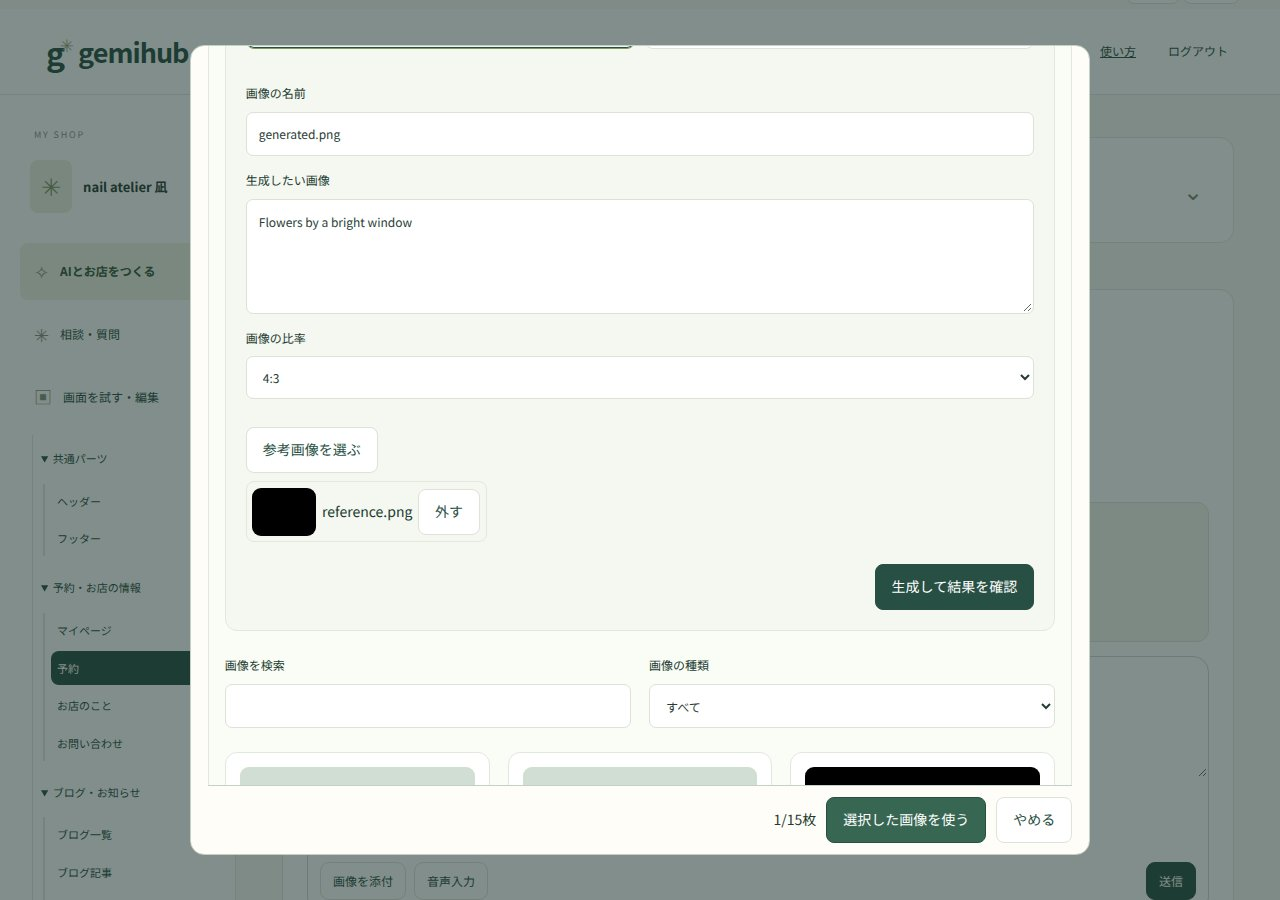
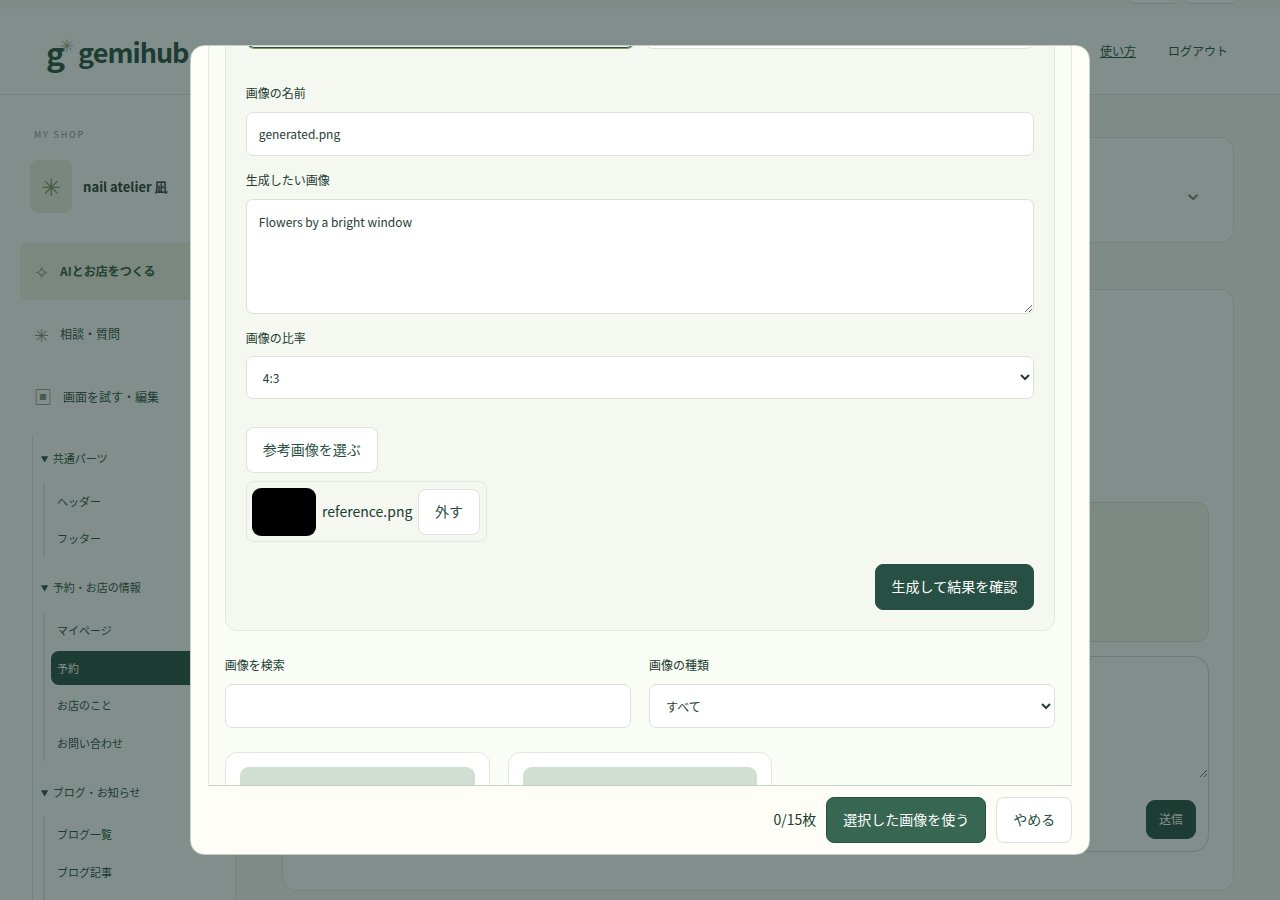
Show screen names and a theme sample at first review; carry chat images into plans
- The first-publication review lists screens by name and shows the page theme
  as one screen image (header, placeholder content, footer) instead of
  rendering a capture of every screen.
- Images attached anywhere in a request chat stay visible to the AI for later
  replies and for the change plan (newest first within 15 images / 75 MB);
  images removed since are skipped instead of failing the chat.
- The AI reflects sample/reference images in colors, mood, layout, structure
  and content, and never follows text inside images.

diff --git a/src/ImageLibrary.tsx b/src/ImageLibrary.tsx
@@ -7,10 +7,9 @@ import { CustomerImageDialog } from "./CustomerImages";
 import { createRequestId } from "./request-id";
 import { generateImageSchema, type GenerateImageInput, type LibraryImage } from "../server/image-library-domain";
 import { RequestImagePicker } from "./RequestImagePicker";
-import { ImageUploadStatus } from "./ImageUploadStatus";
 
 const toData = (file: File) => new Promise<string>((resolve, reject) => { const reader = new FileReader(); reader.onload = () => resolve(String(reader.result).split(",")[1]); reader.onerror = () => reject(new Error(tr("画像を読み込めませんでした"))); reader.readAsDataURL(file); });
-export function ImageLibrary({ shopId, mode = "manage", onSelect, onCreated, onRemove, selectedIds = [], onImagesChange, onBusyChange, allowGeneration = true }: { shopId: string; mode?: "manage" | "select"; onSelect?: (image: LibraryImage) => void; onCreated?: (image: LibraryImage) => boolean; onRemove?: (id: string) => void; selectedIds?: string[]; onImagesChange?: (images: LibraryImage[] | undefined) => void; onBusyChange?: (busy: boolean) => void; allowGeneration?: boolean }) {
+export function ImageLibrary({ shopId, onSelect, onCreated, onRemove, selectedIds = [], onImagesChange, onBusyChange, allowGeneration = true }: { shopId: string; onSelect?: (image: LibraryImage) => void; onCreated?: (image: LibraryImage) => boolean; onRemove?: (id: string) => void; selectedIds?: string[]; onImagesChange?: (images: LibraryImage[] | undefined) => void; onBusyChange?: (busy: boolean) => void; allowGeneration?: boolean }) {
   const api = useApi();
   const base = `/api/shops/${shopId}/images`;
   const pendingKey = `gemihub:image-generation:${shopId}`;
@@ -18,8 +17,6 @@ export function ImageLibrary({ shopId, mode = "manage", onSelect, onCreated, onR
   const [error, setError] = useState("");
   const [notice, setNotice] = useState("");
   const [busy, setBusy] = useState(false);
-  const [uploading, setUploading] = useState(false);
-  const managing = mode === "manage";
   const busyRef = useRef(false);
   const [listening, setListening] = useState(false);
   const [query, setQuery] = useState("");
@@ -52,14 +49,11 @@ export function ImageLibrary({ shopId, mode = "manage", onSelect, onCreated, onR
   async function run(action: () => Promise<void>) { if (busyRef.current) return; busyRef.current = true; setBusy(true); setError(""); setNotice(""); try { await action(); } catch (e) { setError(e instanceof Error ? e.message : String(e)); } finally { busyRef.current = false; setBusy(false); } }
   async function saveUpload(action: { file: File; requestId: string }) {
     await run(async () => {
-      setUploading(true);
-      try {
-        const { imageId } = await api<{ imageId: string }>(base, { requestId: action.requestId, name: action.file.name, mimeType: action.file.type, data: await toData(action.file) });
-        const image: LibraryImage = { id: imageId, name: action.file.name.trim(), mimeType: action.file.type, size: action.file.size, source: "upload", createdAt: new Date().toISOString(), usedBy: [] };
-        setImages(current => [...(current || []).filter(item => item.id !== imageId), image]);
-        setUpload(undefined); setQuery(""); setSource("all");
-        setNotice(managing ? tr("画像をアップロードしました。") : onCreated?.(image) === false ? tr("画像を保存しました。選択済みの画像を外してから、この画像を選んでください。") : tr("アップロードした画像を選択しました。内容を確認してから使用してください。"));
-      } finally { setUploading(false); }
+      const { imageId } = await api<{ imageId: string }>(base, { requestId: action.requestId, name: action.file.name, mimeType: action.file.type, data: await toData(action.file) });
+      const image: LibraryImage = { id: imageId, name: action.file.name.trim(), mimeType: action.file.type, size: action.file.size, source: "upload", createdAt: new Date().toISOString(), usedBy: [] };
+      setImages(current => [...(current || []).filter(item => item.id !== imageId), image]);
+      setUpload(undefined); setQuery(""); setSource("all");
+      setNotice(onCreated?.(image) === false ? tr("画像を保存しました。選択済みの画像を外してから、この画像を選んでください。") : tr("アップロードした画像を選択しました。内容を確認してから使用してください。"));
     });
   }
   function newGeneration() {
@@ -73,9 +67,9 @@ export function ImageLibrary({ shopId, mode = "manage", onSelect, onCreated, onR
   }
   const visible = images?.filter(image => (source === "all" || image.source === source) && `${image.name} ${image.prompt || ""}`.toLowerCase().includes(query.trim().toLowerCase()));
   const zoomIndex = visible?.findIndex(image => image.id === zoomId) ?? -1;
-  return <section className={managing ? "panel image-library" : "image-library image-picker-library"} aria-label={managing ? tr("画像管理") : tr("画像を選ぶ")}>
-    {managing && <div className="section-top"><h2>{tr("画像管理")}</h2></div>}
-    <p>{managing ? tr("アップロードした画像とAIで生成した画像をまとめて管理します。ページやメニューで使って保存・反映するまで、お客様には公開されません。") : allowGeneration ? tr("使う画像を選ぶか、その場でアップロード・AI生成できます。") : tr("使う画像を選ぶか、その場でアップロードできます。")}</p>
+  return <section className={onSelect ? "image-library image-picker-library" : "panel image-library"} aria-label={onSelect ? tr("画像を選ぶ") : tr("画像管理")}>
+    {!onSelect && <div className="section-top"><h2>{tr("画像管理")}</h2></div>}
+    <p>{tr("アップロードした画像とAIで生成した画像をまとめて管理します。ページやメニューで使って保存・反映するまで、お客様には公開されません。")}</p>
     {error && <p className="alert" role="alert">{error}<button type="button" disabled={busy} onClick={() => { setError(""); setAttempt(v => v + 1); }}>{tr("再試行")}</button></p>}{notice && <p className="notice" role="status">{notice}</p>}
     <div className="image-library-tools"><label>{tr("画像をアップロード")}<input type="file" accept="image/png,image/jpeg,image/gif,image/webp" disabled={busy || listening || !images} onChange={event => {
       const file = event.target.files?.[0]; event.target.value = ""; if (!file) return;
@@ -85,8 +79,7 @@ export function ImageLibrary({ shopId, mode = "manage", onSelect, onCreated, onR
     }} /></label>{allowGeneration && <button type="button" disabled={busy || listening} onClick={() => generatorOpen ? setGeneratorOpen(false) : startGeneration()}>{tr("AIで生成")}</button>}</div>
     <p className="small muted">{tr("PNG・JPEG・GIF・WebP、1枚5MBまで。お客様メモの添付はこの一覧には表示しません。")}</p>
     {upload && !busy && <button type="button" onClick={() => void saveUpload(upload)}>{tr("アップロードを再試行")}</button>}
-    {uploading && <ImageUploadStatus name={upload?.file.name} />}
-    {busy && !uploading && !generatorOpen && <p role="status">{tr("画像を保存しています…")}</p>}
+    {busy && !generatorOpen && <p role="status">{tr("画像を保存しています…")}</p>}
     {generatorOpen && <section className="image-generation" aria-label={tr("AIで画像を生成する")}>
       <h3>{tr("AIで画像を生成する")}</h3>
       {!generated && <>
@@ -111,7 +104,7 @@ export function ImageLibrary({ shopId, mode = "manage", onSelect, onCreated, onR
       <div className="actions"><button className="primary" type="submit" disabled={busy || listening || !prompt.trim() || !name.trim()}>{busy ? tr("画像を生成しています…") : pending ? tr("生成・保存を再試行") : tr("生成して結果を確認")}</button>{pending && <button type="button" disabled={busy || listening} onClick={newGeneration}>{tr("新しい生成として入力し直す")}</button>}</div>
     </form>}
     </>}
-    {generated && <section className="request-review image-generation-result" aria-label={tr("生成した画像を確認")}><span className="pill">{tr("確認")}</span><h3>{tr("生成した画像を確認")}</h3><MenuImage imageId={generated.id} imageBase={base} name={generated.name} className="library-image" /><p>{generated.name}</p><p className="small muted">{managing ? tr("画像管理に保存しました。ページやメニューの画像選択から使用できます。") : tr("画像を保存しました。「これでOK」で選択し、この画面で確定すると依頼や編集に使えます。")}</p><div className="actions"><button type="button" onClick={() => { setReference(generated.id); setGenerated(undefined); setMethod(undefined); setNotice(""); }}>{tr("さらに依頼する")}</button><button type="button" className="primary" disabled={!images?.some(image => image.id === generated.id)} onClick={() => { const image = images?.find(image => image.id === generated.id); if (image) onCreated?.(image); setGeneratorOpen(false); setQuery(""); setSource("all"); }}>{tr("これでOK")}</button></div></section>}
+    {generated && <section className="request-review image-generation-result" aria-label={tr("生成した画像を確認")}><span className="pill">{tr("確認")}</span><h3>{tr("生成した画像を確認")}</h3><MenuImage imageId={generated.id} imageBase={base} name={generated.name} className="library-image" /><p>{generated.name}</p><p className="small muted">{tr("画像を保存しました。「これでOK」で選択し、この画面で確定すると依頼や編集に使えます。")}</p><div className="actions"><button type="button" onClick={() => { setReference(generated.id); setGenerated(undefined); setMethod(undefined); setNotice(""); }}>{tr("さらに依頼する")}</button><button type="button" className="primary" disabled={!images?.some(image => image.id === generated.id)} onClick={() => { const image = images?.find(image => image.id === generated.id); if (image) onCreated?.(image); setGeneratorOpen(false); setQuery(""); setSource("all"); }}>{tr("これでOK")}</button></div></section>}
     </section>}
     <div className="customer-controls"><label>{tr("画像を検索")}<input type="search" value={query} onChange={event => setQuery(event.target.value)} /></label><label>{tr("画像の種類")}<select value={source} onChange={event => setSource(event.target.value)}><option value="all">{tr("すべて")}</option><option value="upload">{tr("アップロード")}</option><option value="ai">{tr("AI生成")}</option></select></label></div>
     {!images && !error && <p role="status">{tr("画像を読み込んでいます…")}</p>}
@@ -120,11 +113,9 @@ export function ImageLibrary({ shopId, mode = "manage", onSelect, onCreated, onR
       <button type="button" className="image-preview-button" aria-label={tr("{0}を拡大", image.name)} onClick={() => setZoomId(image.id)}><MenuImage imageId={image.id} imageBase={base} name={image.name} className="library-image" /></button>
       <figcaption><strong>{image.name}</strong><span className="pill">{image.source === "ai" ? tr("AI生成") : tr("アップロード")}</span><small>{Math.ceil(image.size / 1024)} KB{image.createdAt && ` · ${new Date(image.createdAt).toLocaleDateString(intlLocale())}`}</small>{image.usedBy.length > 0 && <p className="small muted">{tr("使用中：")}{image.usedBy.join("、")}</p>}</figcaption>
       {image.prompt && <details><summary>{tr("生成したときの指示")}</summary><p className="pre-wrap">{image.prompt}</p></details>}
-      <div className="actions">{onSelect && <button type="button" className="primary" aria-pressed={selectedIds.includes(image.id)} aria-label={tr("{0}を選択", image.name)} disabled={busy || listening} onClick={() => onSelect(image)}>{selectedIds.includes(image.id) ? tr("✓ 選択中") : tr("選択する")}</button>}{managing && allowGeneration && <button type="button" disabled={busy || listening || !!pending} onClick={() => startGeneration(image.id)}>{tr("この画像をもとに生成")}</button>}</div>
-      {managing && <>
+      <div className="actions">{onSelect && <button type="button" className="primary" aria-pressed={selectedIds.includes(image.id)} aria-label={tr("{0}を選択", image.name)} disabled={busy || listening} onClick={() => onSelect(image)}>{selectedIds.includes(image.id) ? tr("✓ 選択中") : tr("選択する")}</button>}{allowGeneration && <button type="button" disabled={busy || listening || !!pending} onClick={() => startGeneration(image.id)}>{tr("この画像をもとに生成")}</button>}</div>
       {editing?.id === image.id ? <form onSubmit={event => { event.preventDefault(); event.stopPropagation(); void run(async () => { await api(`${base}/${image.id}/rename`, { name: editing.name }); setEditing(undefined); setAttempt(v => v + 1); setNotice(tr("画像の名前を変更しました。")); }); }}><label>{tr("新しい画像名")}<input required maxLength={255} value={editing.name} disabled={busy} onChange={event => setEditing({ ...editing, name: event.target.value })} /></label><div className="actions"><button type="submit" disabled={busy}>{tr("名前を保存")}</button><button type="button" disabled={busy} onClick={() => setEditing(undefined)}>{tr("やめる")}</button></div></form> : <button type="button" disabled={busy} onClick={() => setEditing({ id: image.id, name: image.name })}>{tr("名前を変更")}</button>}
       {deleting === image.id ? <div className="notice">{tr("画像管理から削除します。Drive のファイルは残ります。")}<div className="actions"><button type="button" disabled={busy} onClick={() => void run(async () => { await api(`${base}/${image.id}/archive`, {}); onRemove?.(image.id); setDeleting(undefined); setAttempt(v => v + 1); setNotice(tr("画像管理から削除しました。")); })}>{tr("削除する")}</button><button type="button" disabled={busy} onClick={() => setDeleting(undefined)}>{tr("やめる")}</button></div></div> : <button type="button" disabled={busy || image.usedBy.length > 0} onClick={() => setDeleting(image.id)}>{tr("画像管理から削除")}</button>}
-      </>}
     </figure>)}</div>
     {zoomIndex >= 0 && <CustomerImageDialog items={visible!.map(image => ({ file: { id: image.id, name: image.name, mimeType: image.mimeType, size: image.size }, path: `${base}/${image.id}`, createdAt: image.createdAt || undefined }))} initialIndex={zoomIndex} close={() => setZoomId(undefined)} />}
   </section>;

diff --git a/src/App.tsx b/src/App.tsx
@@ -33,7 +33,6 @@ import "./style.css";
 import { LegacyNotes } from "./LegacyNotes";
 import { JudgeStart, JudgeMenu, JudgeBar, AccessPassword } from "./JudgeAccess";
 import { ShopReset } from "./ShopReset";
-import { ImageLibrary } from "./ImageLibrary";
 import { Admin } from "./Admin";
 import { Assistant } from "./Assistant";
 import { paid, createDisplay, useShopDisplay, ShopRegionContext } from "./money";
@@ -87,20 +86,9 @@ export function App({
   const [error, setError] = useState("");
   const [busy, setBusy] = useState(false);
   const [notice, setNotice] = useState("");
-  const [showOperatorControls, setShowOperatorControls] = useState(false);
   const refresh = () => api<Session>("/api/session").then(setSession);
   useEffect(() => {
     refresh().catch((e) => setError(e.message));
-  }, []);
-  useEffect(() => {
-    const toggleOperatorControls = (event: KeyboardEvent) => {
-      if (event.ctrlKey && event.shiftKey && !event.altKey && !event.metaKey && !event.isComposing && (event.code === "KeyL" || event.key.toLowerCase() === "l")) {
-        event.preventDefault();
-        if (!event.repeat) setShowOperatorControls(value => !value);
-      }
-    };
-    window.addEventListener("keydown", toggleOperatorControls);
-    return () => window.removeEventListener("keydown", toggleOperatorControls);
   }, []);
   async function run(fn: () => Promise<void>) {
     setBusy(true);
@@ -139,8 +127,8 @@ export function App({
           </span>
           {session.user?.role === "owner" && session.user.legacyNotes && <a className="text-button" href="/settings/migration">{tr("旧環境からの引き継ぎ")}</a>}
           {session.user?.judge && <a className="text-button" href="/judge-menu">{tr("審査メニュー")}</a>}
-          {showOperatorControls && session.user?.admin && <a className="text-button" href="/admin">{tr("運営管理")}</a>}
-          {session.user?.role === "owner" && session.user.shopId && !session.user.judge && !session.user.legacyNotes && !session.user.accessPending && <ShopReset shopId={session.user.shopId} navigate={navigate} showButton={showOperatorControls} />}
+          {session.user?.admin && <a className="text-button" href="/admin">{tr("運営管理")}</a>}
+          {session.user?.role === "owner" && session.user.shopId && !session.user.judge && !session.user.legacyNotes && !session.user.accessPending && <ShopReset shopId={session.user.shopId} navigate={navigate} />}
           {!session.user && <a className="text-button" href="/lp">{tr("サービス紹介")}</a>}
           {!isPublic && (
             <a className="text-button" href="/manual">
@@ -359,7 +347,7 @@ function Dashboard({
   const shop = shops.find((s) => s.id === chosen) || shops[0];
   const creating = !!shop?.isOwner && !shop.published;
   const view = creating ? "build" : tab;
-  useEffect(() => { if (shop && !shop.isOwner && ["try", "data", "images"].includes(tab)) setTab("bookings"); }, [shop?.id, shop?.isOwner, tab]);
+  useEffect(() => { if (shop && !shop.isOwner && ["try", "data"].includes(tab)) setTab("bookings"); }, [shop?.id, shop?.isOwner, tab]);
   const activePlan =
     plan && plan.base === shop?.revision && shop.plans.some((p) => p.id === plan.id)
       ? plan
@@ -410,7 +398,7 @@ function Dashboard({
             ["inquiries", "✉", tr("お問い合わせ")],
             ["blog", "✎", tr("ブログ・お知らせ")],
             ...(!shop?.isOwner ? [["staff", "♧", tr("自分のカレンダー")]] : []),
-            ...(shop?.isOwner ? [["images", "▧", tr("画像管理")], ["data", "▤", tr("データ管理")]] : []),
+            ...(shop?.isOwner ? [["data", "▤", tr("データ管理")]] : []),
             ["settings", "⚙", tr("公開の設定")],
             ["manual", "?", tr("使い方")],
           ].map(([id, icon, label]) => (
@@ -508,7 +496,6 @@ function Dashboard({
                 )}
                 {!creating && <div hidden={view!=="inquiries"}><Inquiries shopId={shop.id} inquiries={shop.inquiries}/></div>}
                 {view === "data" && shop.isOwner && <DataManagement key={shop.id} shopId={shop.id} open={setTab} showMenus={openDataMenu} />}
-                {view === "images" && shop.isOwner && <ImageLibrary key={shop.id} shopId={shop.id} />}
                 {view === "settings" && (
                   <Settings shop={shop} run={run} reload={load} hasLegacyNotes={!!session.user?.legacyNotes} />
                 )}

diff --git a/src/Manual.tsx b/src/Manual.tsx
@@ -269,16 +269,15 @@ const chapters: { id: string; title: string; steps: Step[] }[] = [
       {
         id: "image-library",
         get title() { return tr("画像をまとめて管理し、ページに使う"); },
-        get lead() { return tr("メニューの「画像管理」で画像を管理できます。依頼や編集時の画像選択では、アップロード・AI生成・選択ができます。"); },
+        get lead() { return tr("依頼や編集画面の画像選択モーダルで、画像のアップロード・AI生成・管理をまとめて行えます。"); },
         get instructions() { return [
           tr("チャットの「画像を添付」や編集画面の画像選択を開きます。「画像をアップロード」でPNG・JPEG・GIF・WebPの5MB以内の画像を選ぶと、自動で選択されます。最後に「選択した画像を使う」で確定します。検索・種類の絞り込み・拡大も同じ画面でできます。"),
           tr("登録時に使う画面を指定する必要はありません。使用中の画面名は一覧で確認できます。文章・音声・ペンで依頼するときやAIでページを作るときに、チャットの「画像を添付」（ペンでの依頼では「依頼に使う画像を選ぶ」）から管理画像を15枚まで（合計75MB以内）選び、どのように使いたいか伝えてください。変更案の確認・承認・公開まで本番には反映されません。"),
           tr("新しいページやAIが作ったページ案では、編集欄の「画像管理から選ぶ・AIで生成」から画像を選べます。共通ヘッダーとメニューにも同じ選択ボタンがあります。メニューの変更は「保存」で反映します。"),
-          tr("「この画像をもとに生成」「名前を変更」「画像管理から削除」は、メニューの「画像管理」だけに表示します。使用していない画像は確認して削除できます。Drive のファイル本体は残ります。"),
-          tr("アップロード中はスピナー・ファイル名・「画像をアップロードしています…」を表示します。表示が消えるまで待ち、失敗した場合は同じ画面から再試行してください。"),
+          tr("画像の「名前を変更」で名前を編集できます。使用していない画像は「画像管理から削除」から確認して削除できます。Drive のファイル本体は残ります。"),
         ]; },
         image: "30-image-library.jpg",
-        extra: [{ image: "32-page-image.jpg", get caption() { return tr("画像選択モーダルで、アップロード・AI生成・既存画像からの選択ができます。"); } }, { image: "36-image-uploading.jpg", get caption() { return tr("アップロード中はスピナーとファイル名を表示します。"); } }],
+        extra: [{ image: "32-page-image.jpg", get caption() { return tr("画像選択モーダルで、アップロード・AI生成・既存画像からの選択ができます。"); } }],
         get caption() { return tr("アップロード画像とAI生成画像を、使用中の画面名や登録元と一緒に管理する一覧。"); },
         get tip() { return tr("登録しただけではお客様には公開されません。お客様メモの画像は「お客様」の詳細にある「画像一覧」で確認できます。画像管理や依頼の画像選択には表示しません。使用中の画像は、ページやメニューから外して本番に反映してから削除してください。"); },
       },

diff --git a/src/stories/ImageLibrary.stories.tsx b/src/stories/ImageLibrary.stories.tsx
@@ -1,7 +1,7 @@
 import React from "react";
 import { tr } from "../../shared/i18n";
 import type { Meta, StoryObj } from "@storybook/react-vite";
-import { within, userEvent, waitFor, expect } from "storybook/test";
+import { within, userEvent } from "storybook/test";
 import { Screen } from "./Screen";
 const meta = { title: "運営/画像管理", component: Screen, parameters: { layout: "fullscreen" }, render: args => <Screen key={args.scenario} {...args} /> } satisfies Meta<typeof Screen>;
 export default meta;
@@ -12,8 +12,7 @@ async function openPicker(canvasElement: HTMLElement) {
   await userEvent.click(await canvas.findByRole("button", { name: tr("画像を添付") }));
   return within(await within(canvasElement.ownerDocument.body).findByRole("dialog", { name: tr("依頼の画像を選ぶ") }));
 }
-export const Library: Story = { name: "管理画像・アップロード・使用中の画面", args: { scenario: "image-library" }, play: async ({ canvasElement }) => { await userEvent.click(await within(canvasElement).findByRole("button", { name: new RegExp(tr("画像管理") + "$") })); } };
-export const Uploading: Story = { name: "画像アップロード中・スピナーとファイル名", args: { scenario: "image-library-uploading" }, play: async ({ canvasElement }) => { const input = await within(canvasElement).findByLabelText(tr("画像をアップロード")); await waitFor(() => expect(input).toBeEnabled()); await userEvent.upload(input, new File(["uploading"], "shop-photo.png", { type: "image/png" })); } };
+export const Library: Story = { name: "管理画像・アップロード・使用中の画面", args: { scenario: "image-library" }, play: async ({ canvasElement }) => { await openPicker(canvasElement); } };
 export const Generate: Story = { name: "文章で画像生成・参考画像", args: { scenario: "image-library-generation" }, play: async ({ canvasElement }) => { const picker = await openPicker(canvasElement); await userEvent.click(picker.getByRole("button", { name: tr("AIで生成") })); await userEvent.click(picker.getByRole("button", { name: new RegExp(tr("文章で依頼")) })); await userEvent.type(picker.getByLabelText(tr("生成したい画像")), "お店の紹介に使う、明るい窓辺と季節の花の画像"); } };
 export const GenerateMethods: Story = { name: "画像生成の依頼方法を選ぶ", args: { scenario: "image-library-generation" }, play: async ({ canvasElement }) => { const picker = await openPicker(canvasElement); await userEvent.click(picker.getByRole("button", { name: tr("AIで生成") })); } };
 export const GenerateVoice: Story = { name: "音声で画像生成・内容を確認", args: { scenario: "image-library-generation" }, play: async ({ canvasElement }) => { const picker = await openPicker(canvasElement); await userEvent.click(picker.getByRole("button", { name: tr("AIで生成") })); await userEvent.click(picker.getByRole("button", { name: new RegExp(tr("音声で依頼")) })); } };

diff --git a/src/RequestImagePicker.tsx b/src/RequestImagePicker.tsx
@@ -54,7 +54,7 @@ export function RequestImagePicker({ shopId, value, onChange, disabled = false, 
       <div className="section-top"><h2>{selectionOnly ? tr("画像を選ぶ") : tr("依頼の画像を選ぶ")}</h2><button type="button" disabled={working} onClick={() => setOpen(false)}>{tr("閉じる")}</button></div>
       <p>{tr("{0}枚まで選べます。", max)}{!selectionOnly && max > 1 && tr("合計75MBまで。大きな画像はAIへ渡す際に軽量化し、元画像はそのまま保存します。")}{tr("お客様メモの画像は含みません。")}</p>
       {error && <p className="alert" role="alert">{error}{!managed && !images && <button type="button" onClick={() => setAttempt(value => value + 1)}>{tr("再試行")}</button>}</p>}
-      {managed ? <ImageLibrary shopId={shopId} mode="select" selectedIds={selection} onSelect={image => choose(image)} onCreated={image => choose(image, false)} onImagesChange={receiveImages} onBusyChange={receiveBusy} allowGeneration={allowGeneration} /> : <>
+      {managed ? <ImageLibrary shopId={shopId} selectedIds={selection} onSelect={image => choose(image)} onCreated={image => choose(image, false)} onRemove={id => { setSelection(current => current.filter(item => item !== id)); if (value.includes(id)) onChange(value.filter(item => item !== id)); }} onImagesChange={receiveImages} onBusyChange={receiveBusy} allowGeneration={allowGeneration} /> : <>
         <div className="customer-controls"><label>{tr("画像を検索")}<input type="search" value={query} onChange={event => setQuery(event.target.value)} /></label><label>{tr("画像の種類")}<select value={source} onChange={event => setSource(event.target.value)}><option value="all">{tr("すべて")}</option><option value="upload">{tr("アップロード")}</option><option value="ai">{tr("AI生成")}</option></select></label></div>
         {!images && !error && <p role="status">{tr("画像を読み込んでいます…")}</p>}
         {images && !visible?.length && <p className="empty">{tr("条件に合う画像はありません。")}</p>}

diff --git a/src/MenuImage.tsx b/src/MenuImage.tsx
@@ -4,7 +4,6 @@ import { useApi } from "./api";
 import { createRequestId } from "./request-id";
 import { menuImageLimit, type MenuImageData } from "../server/menu-image-domain";
 import { RequestImagePicker } from "./RequestImagePicker";
-import { ImageUploadStatus } from "./ImageUploadStatus";
 
 export function MenuImage({ imageId, imageBase, suffix = "", name, className = "menu-image" }: { imageId?: string; imageBase: string; suffix?: string; name: string; className?: string }) {
   const api = useApi();
@@ -68,7 +67,7 @@ export function MenuImageEditor({ shopId, imageId, name, change, uploading, labe
       const action = { file, requestId: createRequestId() }; setPending(action); void upload(action);
     }} /></label>}
     <p className="small muted">{tr("1枚・5MBまで。アップロードした画像も画像管理に保存されます。画像を選んだ後、「保存」でお客様の画面に反映します。")}</p>
-    {busy && <ImageUploadStatus name={pending?.file.name} />}
+    {busy && <p role="status">{tr("画像を保存しています…")}</p>}
     {error && <p className="alert" role="alert">{error}</p>}
     <div className="actions">{pending && !busy && error && <button type="button" onClick={() => void upload(pending)}>{tr("画像の保存を再試行")}</button>}{imageId && <button type="button" disabled={busy} onClick={() => { change(undefined); setPending(undefined); setError(""); }}>{tr("画像を解除")}</button>}</div>
     </div>

diff --git a/src/ShopReset.tsx b/src/ShopReset.tsx
@@ -2,7 +2,7 @@ import React, { useRef, useState } from "react";
 import { tr } from "../shared/i18n";
 import { useApi } from "./api";
 
-export function ShopReset({ shopId, navigate, showButton = true }: { shopId: string; navigate: (href: string) => void; showButton?: boolean }) {
+export function ShopReset({ shopId, navigate }: { shopId: string; navigate: (href: string) => void }) {
   const api = useApi();
   const dialog = useRef<HTMLDialogElement>(null);
   const [busy, setBusy] = useState(false);
@@ -23,7 +23,7 @@ export function ShopReset({ shopId, navigate, showButton = true }: { shopId: str
     finally { setBusy(false); }
   };
   return <>
-    {showButton && <button className="text-button" onClick={() => { setError(""); dialog.current?.showModal(); }}>{tr("自分のお店を初期化")}</button>}
+    <button className="text-button" onClick={() => { setError(""); dialog.current?.showModal(); }}>{tr("自分のお店を初期化")}</button>
     <dialog ref={dialog} className="shop-reset-dialog" aria-labelledby="shop-reset-title" aria-describedby="shop-reset-description" onCancel={event => { if (busy) event.preventDefault(); }}>
       <h2 id="shop-reset-title">{tr("お店を最初から作り直しますか？")}</h2>
       <p id="shop-reset-description">{tr("自分のお店の公開ページを閉じ、設定・予約・問い合わせ・お客様・記事・画像・AIとの会話を初期化します。元に戻せません。")}</p>

diff --git a/src/stories/mock.ts b/src/stories/mock.ts
@@ -57,7 +57,6 @@ export type Scenario =
   | "image-library-empty"
   | "image-library-generation"
   | "image-library-retry"
-  | "image-library-uploading"
   | "image-page"
   | "crm-list"
   | "crm-detail"
@@ -158,7 +157,6 @@ export function scenarioProps(scenario: Scenario) {
       (
         {
           "image-library": "build", "image-library-empty": "build", "image-library-generation": "build",
-          "image-library-uploading": "images",
           manual: "manual",
           system: "build",
           "us-settings": "basic", "us-menus": "menus",
@@ -484,7 +482,6 @@ export function createMockClient(scenario: Scenario): ApiClient {
       result = { ok: true };
     }
     else if ([`/api/shops/${shop.id}/menu-images`, `/api/shops/${shop.id}/images`].includes(action) && data !== undefined) {
-      if (scenario === "image-library-uploading") return new Promise<T>(() => {});
       const imageId = uploadedImages.get(String(input.requestId)) || String(menuImages.size + 1).padStart(64, "0");
       uploadedImages.set(String(input.requestId), imageId);
       menuImages.set(imageId, { mimeType: String(input.mimeType), data: String(input.data) }); result = { imageId };

diff --git a/src/ArticleImages.tsx b/src/ArticleImages.tsx
@@ -3,7 +3,6 @@ import React, { useEffect, useRef, useState } from "react";
 import { createPortal } from "react-dom";
 import { useApi } from "./api";
 import { RequestImagePicker } from "./RequestImagePicker";
-import { ImageUploadStatus } from "./ImageUploadStatus";
 import { createRequestId } from "./request-id";
 import { articleImagePath } from "../server/post-images";
 import { menuImageLimit } from "../server/menu-image-domain";
@@ -147,7 +146,7 @@ export function ArticleImageChooser({
           />
         </label>
       )}
-      {busy && <ImageUploadStatus name={pending?.file.name} />}
+      {busy && <p role="status">{tr("画像を保存しています…")}</p>}
       {error && (
         <p className="alert" role="alert">
           {error}

diff --git a/docs/spec.en.md b/docs/spec.en.md
@@ -36,7 +36,7 @@ Questions are answered in Consult & ask. Changes clarifies a requested edit. New
 
 ## Reset for recording
 
-Google-signed-in owners can reveal Reset my shop in the header even during initial setup and in production. Admin and Reset my shop are hidden initially and after reload. Ctrl+Shift+L toggles both controls while preserving their existing authorization checks; ignore repeated keydown events from holding the keys. Hiding the controls must not close a confirmation or interrupt an ongoing reset. Require a confirmation explaining that the storefront closes and settings, bookings, inquiries, customers, articles, images, and AI conversations reset. Focus Cancel first, block duplicate actions while running, and allow the same operation to resume after failure. Customers and another shop’s staff cannot reset it; judges keep their existing judge-menu reset.
+Google-signed-in owners can select Reset my shop in the header even during initial setup and in production. Require a confirmation explaining that the storefront closes and settings, bookings, inquiries, customers, articles, images, and AI conversations reset. Focus Cancel first, block duplicate actions while running, and allow the same operation to resume after failure. Customers and another shop’s staff cannot reset it; judges keep their existing judge-menu reset.
 
 Keep Google authorization, sign-in, country, and time zone; return to an empty shop’s creation screen. Archive the old shop, move only its dedicated Drive folder to the trash, and stop its storefront, custom domain, APIs, synchronization, and old staff access. The next private publication creates new storage. Remove only that shop’s local drafts. Retain PayPal payment/refund journals and reset audit records without issuing refunds. Validate owner and origin server-side. A journal and locks keyed to the old shop make retries and concurrent requests safe; a stale tab never resets a later take.
 
@@ -138,7 +138,7 @@ Persist user messages before generation and deduplicate by request ID. Retry fai
 
 ## Images and generation
 
-Owners have a dedicated Image management navigation menu as well as image-selection dialogs in requests and editors. Only the management screen shows Generate from this image, Rename, and Remove from image management on image cards. Selection dialogs retain upload, AI generation, search, filtering, zoom, and selection without those management actions. Uploads are selected automatically in a picker; AI results are reviewed and selected with OK before confirming the selection. Management uploads/generation save to the library without claiming a selection was made. The owner-only library combines uploads, service images, and Gemini images. Upload PNG/JPEG/GIF/WebP up to 5 MB each. Show a spinner, file name, and uploading message throughout file reading and upload, including while the AI generation form is open; disable duplicate actions and provide retry after a failure. Use the same feedback for service/staff photos and article uploads. No destination is required at upload. Show usage and keep Drive files when removing unused records. Only published references are served; reject CRM/cross-shop image IDs, unselected new proposed IDs, and removal while in use.
+Image management lives in the image-selection modal, without a separate navigation menu. Owners can upload PNG/JPEG/GIF/WebP images up to 5 MB each or generate images with AI in place. Uploads are selected automatically; AI results are reviewed and selected with OK before confirming the selection. The owner-only library combines uploads, service images, and Gemini images. Search, filter, rename, and remove unused records while keeping Drive files. No destination is required at upload. Show usage. Only published references are served; reject CRM/cross-shop image IDs, unselected new proposed IDs, and removal while in use.
 
 AI text/voice/pen/page requests select up to 15 managed images, 75 MB total, passing bytes and IDs. Keep original 5 MB images in Drive. Above 12 MB total, create model-only JPEG copies up to 2048 px and 768 KB each, retaining IDs and public originals.
 
